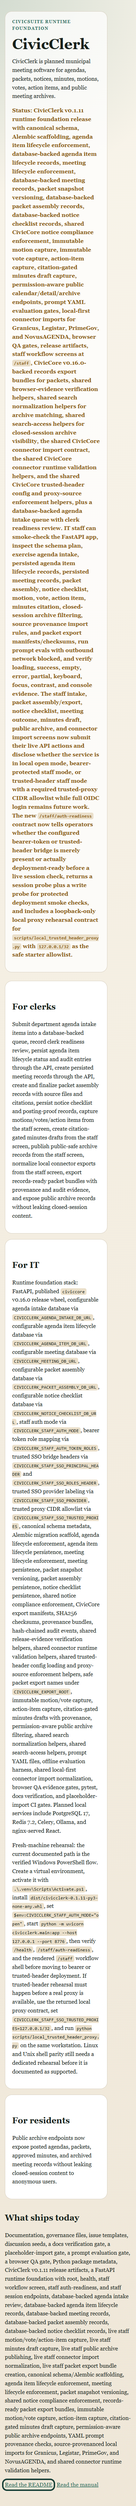
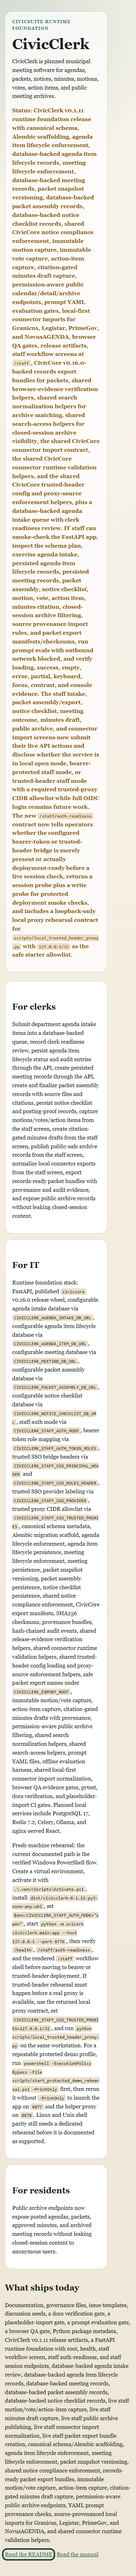
feat: add protected demo rehearsal script

Changed region(s): [[0.0308, 0.0, 0.9538, 0.9996]]

diff --git a/docs/index.html b/docs/index.html
@@ -62,7 +62,7 @@
       <article class="card">
         <h2>For IT</h2>
 <p>Runtime foundation stack: FastAPI, published <code>civiccore</code> v0.16.0 release wheel, configurable agenda intake database via <code>CIVICCLERK_AGENDA_INTAKE_DB_URL</code>, configurable agenda item lifecycle database via <code>CIVICCLERK_AGENDA_ITEM_DB_URL</code>, configurable meeting database via <code>CIVICCLERK_MEETING_DB_URL</code>, configurable packet assembly database via <code>CIVICCLERK_PACKET_ASSEMBLY_DB_URL</code>, configurable notice checklist database via <code>CIVICCLERK_NOTICE_CHECKLIST_DB_URL</code>, staff auth mode via <code>CIVICCLERK_STAFF_AUTH_MODE</code>, bearer token role mapping via <code>CIVICCLERK_STAFF_AUTH_TOKEN_ROLES</code>, trusted SSO bridge headers via <code>CIVICCLERK_STAFF_SSO_PRINCIPAL_HEADER</code> and <code>CIVICCLERK_STAFF_SSO_ROLES_HEADER</code>, trusted SSO provider labeling via <code>CIVICCLERK_STAFF_SSO_PROVIDER</code>, trusted proxy CIDR allowlist via <code>CIVICCLERK_STAFF_SSO_TRUSTED_PROXIES</code>, canonical schema metadata, Alembic migration scaffold, agenda lifecycle enforcement, agenda item lifecycle persistence, meeting lifecycle enforcement, meeting persistence, packet snapshot versioning, packet assembly persistence, notice checklist persistence, shared notice compliance enforcement, CivicCore export manifests, SHA256 checksums, provenance bundles, hash-chained audit events, shared release-evidence verification helpers, shared connector runtime validation helpers, shared trusted-header config loading and proxy-source enforcement helpers, safe packet export names under <code>CIVICCLERK_EXPORT_ROOT</code>, immutable motion/vote capture, action-item capture, citation-gated minutes drafts with provenance, permission-aware public archive filtering, shared search normalization helpers, shared search-access helpers, prompt YAML files, offline evaluation harness, shared local-first connector import normalization, browser QA evidence gates, pytest, docs verification, and placeholder-import CI gates. Planned local services include PostgreSQL 17, Redis 7.2, Celery, Ollama, and nginx-served React.</p>
-<p>Fresh-machine rehearsal: the current documented path is the verified Windows PowerShell flow. Create a virtual environment, activate it with <code>.\.venv\Scripts\Activate.ps1</code>, install <code>dist/civicclerk-0.1.11-py3-none-any.whl</code>, set <code>$env:CIVICCLERK_STAFF_AUTH_MODE="open"</code>, start <code>python -m uvicorn civicclerk.main:app --host 127.0.0.1 --port 8776</code>, then verify <code>/health</code>, <code>/staff/auth-readiness</code>, and the rendered <code>/staff</code> workflow shell before moving to bearer or trusted-header deployment. If trusted-header rehearsal must happen before a real proxy is available, use the returned local proxy contract, set <code>CIVICCLERK_STAFF_SSO_TRUSTED_PROXIES=127.0.0.1/32</code>, and run <code>python scripts/local_trusted_header_proxy.py</code> on the same workstation. Linux and Unix shell parity still needs a dedicated rehearsal before it is documented as supported.</p>
+<p>Fresh-machine rehearsal: the current documented path is the verified Windows PowerShell flow. Create a virtual environment, activate it with <code>.\.venv\Scripts\Activate.ps1</code>, install <code>dist/civicclerk-0.1.11-py3-none-any.whl</code>, set <code>$env:CIVICCLERK_STAFF_AUTH_MODE="open"</code>, start <code>python -m uvicorn civicclerk.main:app --host 127.0.0.1 --port 8776</code>, then verify <code>/health</code>, <code>/staff/auth-readiness</code>, and the rendered <code>/staff</code> workflow shell before moving to bearer or trusted-header deployment. If trusted-header rehearsal must happen before a real proxy is available, use the returned local proxy contract, set <code>CIVICCLERK_STAFF_SSO_TRUSTED_PROXIES=127.0.0.1/32</code>, and run <code>python scripts/local_trusted_header_proxy.py</code> on the same workstation. For a repeatable protected demo profile, run <code>powershell -ExecutionPolicy Bypass -File scripts/start_protected_demo_rehearsal.ps1 -PrintOnly</code> first, then rerun it without <code>-PrintOnly</code> to launch the app on <code>8877</code> and the helper proxy on <code>8878</code>. Linux and Unix shell parity still needs a dedicated rehearsal before it is documented as supported.</p>
       </article>
       <article class="card">
         <h2>For residents</h2>

diff --git a/tests/test_milestone_12_release.py b/tests/test_milestone_12_release.py
@@ -103,5 +103,46 @@ def test_docs_include_fresh_machine_install_and_smoke_check_contract() -> None:
         "http://127.0.0.1:8776/health",
         "/staff/auth-readiness",
         '$env:CIVICCLERK_STAFF_AUTH_MODE="open"',
+        "scripts/start_protected_demo_rehearsal.ps1",
+        "-PrintOnly",
+        "127.0.0.1:8877",
+        "127.0.0.1:8878",
     ]:
         assert expected in docs
+
+
+def test_protected_demo_rehearsal_script_prints_expected_plan() -> None:
+    import subprocess
+
+    script = ROOT / "scripts" / "start_protected_demo_rehearsal.ps1"
+    assert script.exists()
+
+    result = subprocess.run(
+        [
+            "powershell",
+            "-ExecutionPolicy",
+            "Bypass",
+            "-File",
+            str(script),
+            "-PrintOnly",
+        ],
+        cwd=ROOT,
+        check=False,
+        capture_output=True,
+        text=True,
+    )
+
+    assert result.returncode == 0, result.stdout + result.stderr
+    output = result.stdout
+    for expected in [
+        "Protected demo rehearsal profile",
+        "CIVICCLERK_STAFF_AUTH_MODE=trusted_header",
+        "CIVICCLERK_STAFF_SSO_TRUSTED_PROXIES=127.0.0.1/32",
+        "CIVICCLERK_LOCAL_PROXY_UPSTREAM=http://127.0.0.1:8877",
+        "App command: python -m uvicorn civicclerk.main:app --host 127.0.0.1 --port 8877",
+        "Proxy command: python scripts/local_trusted_header_proxy.py",
+        "Smoke check: GET http://127.0.0.1:8877/health",
+        "Readiness check: GET http://127.0.0.1:8877/staff/auth-readiness",
+        "Browser check: open http://127.0.0.1:8878/staff",
+    ]:
+        assert expected in output

diff --git a/README.md b/README.md
@@ -144,9 +144,10 @@ A new user can inspect and run the foundation, open first staff workflow screens
 8. Set `CIVICCLERK_AGENDA_ITEM_DB_URL` before agenda item lifecycle persistence smoke checks, set `CIVICCLERK_MEETING_DB_URL` before meeting persistence smoke checks, and set `CIVICCLERK_EXPORT_ROOT` before API packet export smoke checks; API callers provide a relative `bundle_name`, not an arbitrary filesystem path.
 9. In bearer or trusted-header mode, call `/staff/auth-readiness` first and use the returned `session_probe` plus `write_probe` before trusting a protected deployment.
 10. If trusted-header mode is still being rehearsed on one workstation, use the returned `local_proxy_rehearsal` block, set `CIVICCLERK_STAFF_SSO_TRUSTED_PROXIES=127.0.0.1/32`, run `python scripts/local_trusted_header_proxy.py`, and browse the helper listen URL instead of the upstream app URL.
-11. Run `CIVICCORE_LLM_PROVIDER=ollama CIVICCLERK_EVAL_OFFLINE=1 NO_NETWORK=1 python scripts/run-prompt-evals.py` before changing prompt YAML.
-12. Run `python scripts/verify-browser-qa.py` before landing frontend or browser-visible documentation changes.
-13. Follow GitHub issues and discussions as live sync, full UI, and database-backed workflows land.
+11. If you want the trusted-header demo profile without hand-exporting env vars, run `powershell -ExecutionPolicy Bypass -File scripts/start_protected_demo_rehearsal.ps1 -PrintOnly` to print the exact commands, then rerun the same script without `-PrintOnly` to launch the app on `8877` and the helper proxy on `8878`.
+12. Run `CIVICCORE_LLM_PROVIDER=ollama CIVICCLERK_EVAL_OFFLINE=1 NO_NETWORK=1 python scripts/run-prompt-evals.py` before changing prompt YAML.
+13. Run `python scripts/verify-browser-qa.py` before landing frontend or browser-visible documentation changes.
+14. Follow GitHub issues and discussions as live sync, full UI, and database-backed workflows land.
 
 ## Architecture direction
 
@@ -162,6 +163,8 @@ CivicClerk follows the CivicSuite pattern:
 The foundation is intentionally thin. Canonical schema, Alembic scaffolding, agenda item lifecycle enforcement, agenda item lifecycle persistence, meeting lifecycle enforcement, meeting records, packet snapshot versioning, packet assembly records, notice checklist records, shared notice compliance enforcement, immutable motion capture, immutable vote capture, action-item capture, citation-gated minutes draft capture, permission-aware public archive endpoints, prompt YAML/evaluation gates, local-first connector import normalization, browser QA gates, CivicClerk v0.1.11 release artifacts, and CivicCore v0.16.0 packet export, browser-evidence verification, connector runtime validation, and trusted-header config enforcement primitives are present. Minutes drafts require sentence-level citations, YAML prompt-version provenance, and human approval before acceptance, and they are never auto-adopted or auto-posted. Anonymous public archive endpoints do not reveal closed-session content in response bodies, counts, suggestions, or error messages. Connector imports record source provenance and do not require outbound network calls in the default local profile. Public packet exports block closed-session/restricted sources and include manifest, checksum, provenance, and audit evidence. Agenda item records now persist lifecycle status and audit entries when `CIVICCLERK_AGENDA_ITEM_DB_URL` is configured. Meeting records now persist scheduled starts, normalized meeting type, lifecycle status, and audit entries when `CIVICCLERK_MEETING_DB_URL` is configured. Packet assembly records now persist source references, citations, linked packet snapshot ids, and durable audit hashes. Notice checklist records persist compliance outcomes, warnings, posting proof, and durable audit hashes. Browser QA now checks loading, success, empty, error, and partial states plus keyboard, focus, contrast, and console evidence, and release screenshots are bound to the current docs page through shared CivicCore verification helpers. CivicClerk v0.1.11 now pairs with the published `civiccore` v0.16.0 release wheel. The first staff auth foundation is now explicit: local rehearsals can stay in `CIVICCLERK_STAFF_AUTH_MODE=open`, bearer-protected deployments can set `CIVICCLERK_STAFF_AUTH_MODE=bearer` plus `CIVICCLERK_STAFF_AUTH_TOKEN_ROLES`, and trusted reverse-proxy deployments can set `CIVICCLERK_STAFF_AUTH_MODE=trusted_header` plus `CIVICCLERK_STAFF_SSO_PRINCIPAL_HEADER`, `CIVICCLERK_STAFF_SSO_ROLES_HEADER`, `CIVICCLERK_STAFF_SSO_PROVIDER`, and `CIVICCLERK_STAFF_SSO_TRUSTED_PROXIES` until full OIDC login lands. The `/staff/auth-readiness` endpoint now tells operators whether those bearer or trusted-proxy settings are merely present or actually deployment-ready, and it includes a loopback-only rehearsal recipe so trusted-header testing does not require inventing a custom proxy first.
 
 The staff experience at `/staff` now includes first workflow screens for agenda intake, packet assembly/export, notice checklist/posting-proof, meeting outcome, minutes draft, public archive, and connector import work. It is intentionally honest: these seven screens can submit their corresponding live API actions, the auth panel now renders concrete protected-session and protected-write probes from `/staff/auth-readiness` when bearer or trusted-header mode is ready, it surfaces the loopback-only local proxy rehearsal command and env vars when trusted-header mode is being staged, and the broader multi-role React clerk console remains future work.
+
+For protected demos on Windows PowerShell, `scripts/start_protected_demo_rehearsal.ps1` now prints and can launch the loopback-only trusted-header profile end to end: the app on `127.0.0.1:8877`, the helper proxy on `127.0.0.1:8878`, the required trusted-header env vars, the health/readiness checks, and the browser target for `/staff`.
 
 ## Verification
 

diff --git a/USER-MANUAL.md b/USER-MANUAL.md
@@ -159,6 +159,12 @@ real reverse proxy is available, use the returned `local_proxy_rehearsal`
 contract, set `CIVICCLERK_STAFF_SSO_TRUSTED_PROXIES=127.0.0.1/32`, run
 `python scripts/local_trusted_header_proxy.py`, and send the browser through
 that helper so CivicClerk only trusts loopback proxy traffic during rehearsal.
+For a repeatable protected demo profile on Windows PowerShell, run
+`powershell -ExecutionPolicy Bypass -File scripts/start_protected_demo_rehearsal.ps1 -PrintOnly`
+to print the exact env vars, commands, and smoke-check URLs first. When the
+plan looks right, rerun the same script without `-PrintOnly` to launch the app
+on `127.0.0.1:8877` and the helper proxy on `127.0.0.1:8878`, then browse the
+proxy `/staff` URL instead of the upstream app URL.
 
 ### Security posture
 

diff --git a/CHANGELOG.md b/CHANGELOG.md
@@ -5,6 +5,9 @@ All notable changes to CivicClerk are documented here.
 ## [Unreleased]
 
 ### Added
+- `scripts/start_protected_demo_rehearsal.ps1` now prints and can launch a
+  repeatable Windows PowerShell trusted-header demo profile for CivicClerk plus
+  the loopback-only helper proxy.
 - Trusted-header `/staff/auth-readiness` responses now include a structured
   `local_proxy_rehearsal` contract with loopback-only helper command, env vars,
   injected headers, steps, and warnings for `scripts/local_trusted_header_proxy.py`.
